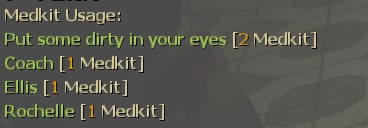
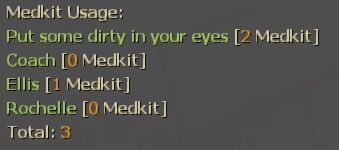
2022_12_23 updated

Changed region(s): [[0.0, 0.0, 0.944, 0.8125], [0.0, 0.8125, 0.472, 0.9688]]

diff --git a/Plugin_插件/Fun_娛樂/l4d_ranking_system/readme.md b/Plugin_插件/Fun_娛樂/l4d_ranking_system/readme.md
@@ -27,6 +27,10 @@ This plugin is private, Please contact [me](https://github.com/fbef0102/Game-Pri
 
 * <details><summary>Changelog | 版本日誌</summary>
 
+	* v1.2 (2022-12-23)
+		* Request by Anzu
+		* Show rank hud when new player joins and new round starts
+
 	* v1.1
 		* Supporty MySQL and Local-SQLite
 
@@ -36,50 +40,55 @@ This plugin is private, Please contact [me](https://github.com/fbef0102/Game-Pri
 
 * Require | 必要安裝
 	1. [[INC] Multi Colors](https://forums.alliedmods.net/showthread.php?t=247770)
+	2. Optional - [[INC] readyup](/left4dead2/scripting/include/readyup.inc)
+
+* Optional | 輔助插件
+	1. [readyup](/Plugin_插件/Server_伺服器/readyup): Ready Plugin
+		> 準備插件，新的回合開始時顯示Rank Hud
 
 * <details><summary>ConVar | 指令</summary>
 
 	* cfg/sourcemod/l4d_ranking_system.cfg
-	```php
-	// Giving exp for killing a boomer
-	l4d_ranking_system_boomk_illed "10"
+		```php
+		// Giving exp for killing a boomer
+		l4d_ranking_system_boomk_illed "10"
 
-	// Giving exp for killing a charger
-	l4d_ranking_system_charger_killed "30"
+		// Giving exp for killing a charger
+		l4d_ranking_system_charger_killed "30"
 
-	// Database to save ranking system. (MySQL & SQLite supported)
-	l4d_ranking_system_database "rank"
+		// Database to save ranking system. (MySQL & SQLite supported)
+		l4d_ranking_system_database "rank"
 
-	// 0=Plugin off, 1=Plugin on.
-	l4d_ranking_system_allow "1"
+		// 0=Plugin off, 1=Plugin on.
+		l4d_ranking_system_allow "1"
 
-	// Giving exp for killing a hunter
-	l4d_ranking_system_hunter_killed "20"
+		// Giving exp for killing a hunter
+		l4d_ranking_system_hunter_killed "20"
 
-	// Giving exp for killing a jockey
-	l4d_ranking_system_jockey_killed "25"
+		// Giving exp for killing a jockey
+		l4d_ranking_system_jockey_killed "25"
 
-	// Numbers of real survivor player require to active this plugin.
-	l4d_ranking_system_player_require "4"
+		// Numbers of real survivor player require to active this plugin.
+		l4d_ranking_system_player_require "4"
 
-	// Giving exp for killing a smoker
-	l4d_ranking_system_smoker_killed "20"
+		// Giving exp for killing a smoker
+		l4d_ranking_system_smoker_killed "20"
 
-	// Giving exp for killing a spitter
-	l4d_ranking_system_spitter_killed "10"
+		// Giving exp for killing a spitter
+		l4d_ranking_system_spitter_killed "10"
 
-	// Giving exp for killing a tank
-	l4d_ranking_system_tank_killed "200"
+		// Giving exp for killing a tank
+		l4d_ranking_system_tank_killed "200"
 
-	// How many top rank players to display in 'Top Players' menu
-	l4d_ranking_system_top_rank_numbers "10"
+		// How many top rank players to display in 'Top Players' menu
+		l4d_ranking_system_top_rank_numbers "10"
 
-	// Giving exp for killing a witch
-	l4d_ranking_system_witch_killed "80"
+		// Giving exp for killing a witch
+		l4d_ranking_system_witch_killed "80"
 
-	// Giving exp for killing a zombie
-	l4d_ranking_system_zombie_killed "1"
-	```
+		// Giving exp for killing a zombie
+		l4d_ranking_system_zombie_killed "1"
+		```
 </details>
 
 * <details><summary>Command | 命令</summary>

diff --git a/Plugin_插件/Survival_生存模式/l4d_survival_auto_recover/readme.md b/Plugin_插件/Survival_生存模式/l4d_survival_auto_recover/readme.md
@@ -1,0 +1,81 @@
+# Description | 內容
+Auto save survivors if incapacitated or hanging from ledge before survival begins
+
+> __Note__ <br/>
+This plugin is private, Please contact [me](https://github.com/fbef0102/Game-Private_Plugin#私人插件列表-private-plugins-list)<br/>
+此為私人插件, 請聯繫[本人](https://github.com/fbef0102/Game-Private_Plugin#私人插件列表-private-plugins-list)
+
+* Video | 影片展示
+<br/>None
+
+* Image | 圖示
+	* Auto self-revive when hanging from ledge
+		> 掛邊自動起來
+		<br/>![l4d_survival_auto_recover_1](image/l4d_survival_auto_recover_1.gif)
+	* Auto self-revive when incapacitated
+		> 倒地自動起來
+		<br/>![l4d_survival_auto_recover_2](image/l4d_survival_auto_recover_2.gif)
+
+* Apply to | 適用於
+	```
+	L4D1 Survival
+	L4D2 Survival
+	```
+
+* <details><summary>Changelog | 版本日誌</summary>
+
+	* v1.0
+		* Request by GGM
+		* Initial Release
+</details>
+
+* Require | 必要安裝
+	1. [left4dhooks](https://forums.alliedmods.net/showthread.php?t=321696)
+	2. [[INC] Multi Colors](https://forums.alliedmods.net/showthread.php?t=247770)
+	3. [builtinvotes](https://github.com/L4D-Community/builtinvotes/actions)
+
+* <details><summary>ConVar | 指令</summary>
+
+    * cfg/sourcemod/l4d_survival_auto_recover.cfg
+        ```php
+		// Enable autorecover by default? [1-Enable/0-Disable]
+		l4d_survival_auto_recover_default_value "1"
+
+		// Delay to start another a autorecover vote after vote ends.
+		l4d_survival_auto_recover_delay "60"
+
+		// 0=Plugin off, 1=Plugin on.
+		l4d_survival_auto_recover_enable "1"
+
+		// If 1, players can not call autorecover vote after survival begins.
+		l4d_survival_auto_recover_game_block "1"
+
+		// Numbers of real survivor and infected player required to start a autorecover vote.
+		l4d_survival_auto_recover_required "2"
+
+		// Auto save survivors if 1: Incap, 2: Hang from ledge, 3: Both
+		l4d_survival_auto_recover_save_type "3"
+        ```
+</details>
+
+* <details><summary>Command | 命令</summary>
+
+	* **Calls a vote to enable / disable autorecover**
+		```php
+		sm_autorecover
+		```
+</details>
+
+- - - -
+# 中文說明
+生存模式計時開始之前，任何玩家倒地或掛邊會自動爬起來並回復所有血量
+
+* 原理
+	* 生存計時開始之前，倒地或掛邊自動救起來並回血
+	* 生存計時開始之後，此插件不會有任何效果
+
+* 功能
+	* 生存計時開始前輸入```!autorecover```可開關自救回血功能
+	* 可設置自救回血功能預設是開啟還是關閉
+	* 可設置發起投票需要的人數
+	* 可設置遊戲開始後不能發起投票

diff --git a/Plugin_插件/Anti_Griefer_防惡意路人/teamlock_vote/readme.md b/Plugin_插件/Anti_Griefer_防惡意路人/teamlock_vote/readme.md
@@ -9,17 +9,17 @@ This plugin is private, Please contact [me](https://github.com/fbef0102/Game-Pri
 
 * Image | 圖示
 	* Calls a vote to enable / disable locking teams
-	> 投票開啟或關閉隊伍鎖住功能
-	<br/>![teamlock_vote_1](image/teamlock_vote_1.jpg)
+		> 投票開啟或關閉隊伍鎖住功能
+		<br/>![teamlock_vote_1](image/teamlock_vote_1.jpg)
 	* Display message
-	> 遊戲開始後提示隊伍鎖住功能
-	<br/>![teamlock_vote_2](image/teamlock_vote_2.jpg)
+		> 遊戲開始後提示隊伍鎖住功能
+		<br/>![teamlock_vote_2](image/teamlock_vote_2.jpg)
 
 * Apply to | 適用於
-```
-L4D1
-L4D2
-```
+	```
+	L4D1
+	L4D2
+	```
 
 * <details><summary>Changelog | 版本日誌</summary>
 
@@ -46,7 +46,7 @@ L4D2
 	// 0=Plugin off, 1=Plugin on.
 	teamlock_vote_enable "1"
 
-	// If 1, players can not start teamlock vote after game starts.
+	// If 1, players can not start teamlock vote after game starts/survival begins.
 	teamlock_vote_game_block "1"
 
 	// Numbers of real survivor and infected player required to start a teamlock vote.

diff --git a/Plugin_插件/Miscellaneous_雜項/l4d_medkit_status/readme.md b/Plugin_插件/Miscellaneous_雜項/l4d_medkit_status/readme.md
@@ -41,8 +41,8 @@ This plugin is private, Please contact [me](https://github.com/fbef0102/Game-Pri
 		// Changes how message displays. (0: Disable, 1:In chat, 2: In Hint Box, 3: In center text)
 		l4d_medkit_status_announce_type "1"
 
-		// Display message to Which player. (1=Person doing the healing, 2=Person being healed, 3=Both)
-		l4d_medkit_status_display_player "1"
+		// Count medkit to which player. (1=Person doing the healing, 2=Person being healed)
+		l4d_medkit_status_count_player "1"
 
 		// 0=Plugin off, 1=Plugin on.
 		l4d_medkit_status_enable "1"
@@ -73,7 +73,7 @@ This plugin is private, Please contact [me](https://github.com/fbef0102/Game-Pri
 	* 即使玩家離線仍然保留數據
 
 * 功能
-	* 輸入!med顯示所有人的治療包使用數量
+	* 輸入```!med```顯示所有人的治療包使用數量
 	* 可設置遊戲開始後才計算治療包使用狀態
 		* 離開安全室或生存模式計時開始
 	* 可設置何時清除數據

diff --git a/README.md b/README.md
@@ -193,6 +193,8 @@ My Unpublic Private Plugin (Charge)
     * 生存模式開始之前設定汽油桶位置，下次回合開始之時汽油桶自動擺放
   * [l4d_survival_min_si_require](/Plugin_插件/Survival_生存模式/l4d_survival_min_si_require): Display Minimum SI requirement for full-team on each survival map.
     * 在聊天欄顯示該生存地圖的最少特感擊殺數
+  * [l4d_survival_auto_recover](/Plugin_插件/Survival_生存模式/l4d_survival_auto_recover): Auto save survivors if incapacitated or hanging from ledge before survival begins
+    * 生存模式計時開始之前，任何玩家倒地或掛邊會自動爬起來並回復所有血量
 </details>
 
 * <details><summary><b>Fuck you Griefer | 防路人搗亂-反制傻B合集</b></summary>

diff --git a/Plugin_插件/Nothing_Impossible_無理改造版/l4d_pushdrag/readme.md b/Plugin_插件/Nothing_Impossible_無理改造版/l4d_pushdrag/readme.md
@@ -19,10 +19,10 @@ This plugin is private, Please contact [me](https://github.com/fbef0102/Game-Pri
 		<br/>![l4d_pushdrag_3](image/l4d_pushdrag_3.jpg)
 
 * Apply to | 適用於
-```
-L4D1
-L4D2
-```
+	```
+	L4D1
+	L4D2
+	```
 
 * <details><summary>Changelog | 版本日誌</summary>
 
@@ -30,6 +30,9 @@ L4D2
 	//panxiaohai @ 2010
 	//HarryPotter @ 2022
 	```
+	* v1.1h
+		* Drag and throw prop_fuel_barrel
+
 	* v1.0h
 		* Request by 所長
 		* Remake Code
